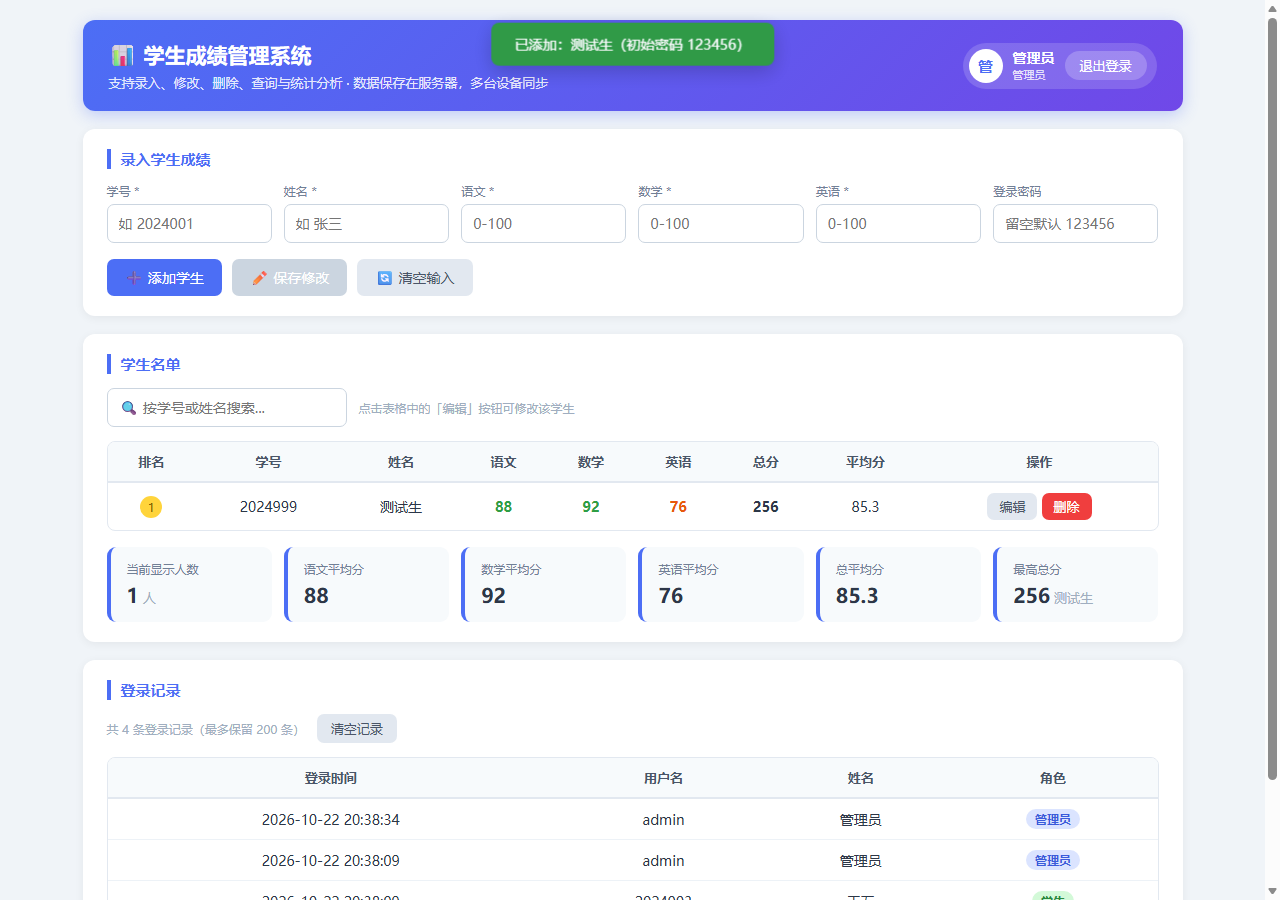
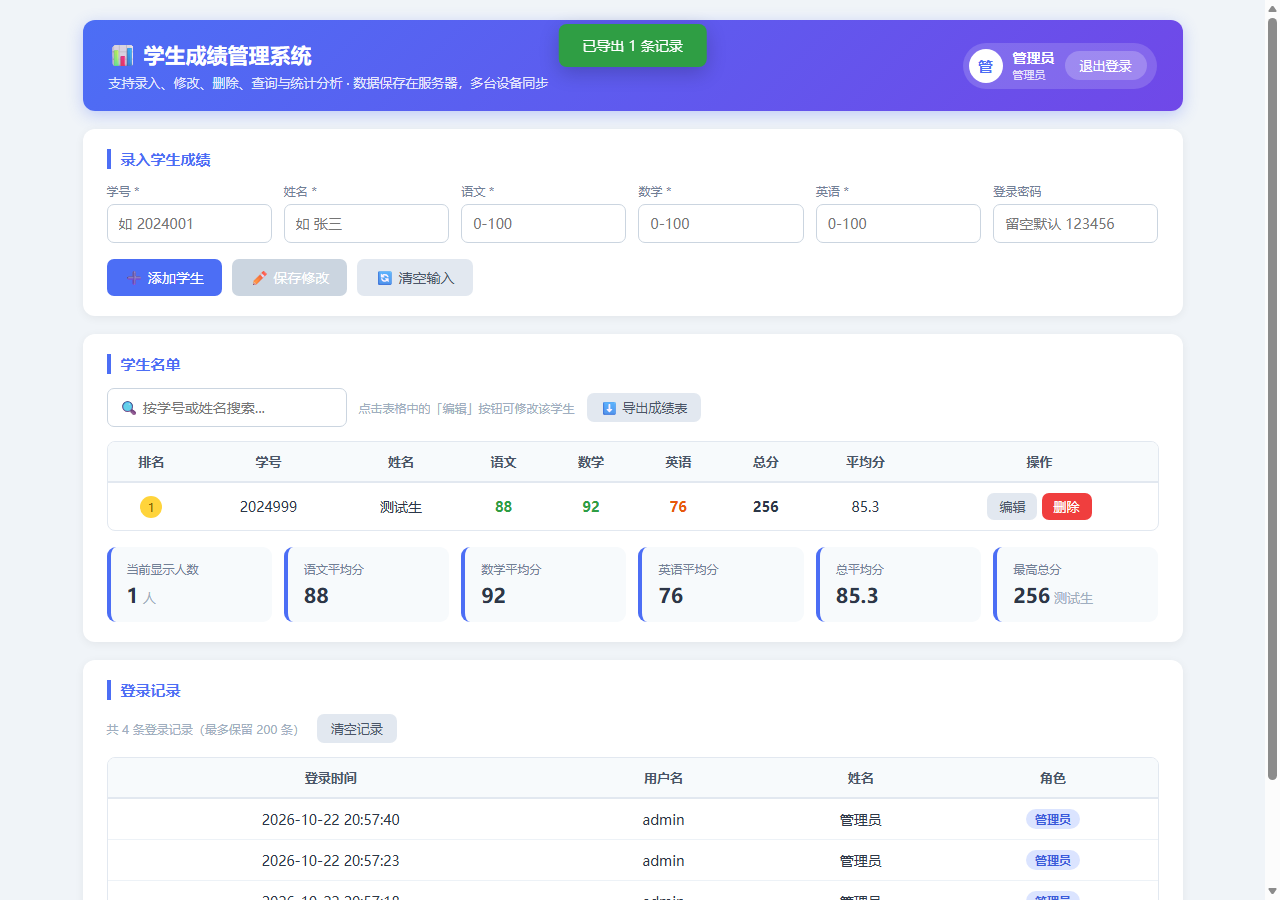
feat: 成绩表导出为 CSV
- server: 新增 GET /api/export（仅管理员），UTF-8 BOM，Excel/WPS 打开不乱码
- 前端：学生名单工具栏新增「导出成绩表」按钮，走 blob 下载并保留中文文件名
- tools/build-index.js：生成页面时注入导出按钮
- 测试：接口 42 项、端到端 20 项全部通过

diff --git a/server/tools/test-api.js b/server/tools/test-api.js
@@ -41,6 +41,9 @@ async function call(method, path, { token, body } = {}) {
   const adminToken = login.data.token;
   check('返回角色为 admin', login.data.user.role === 'admin');
 
+  // 清掉历史登录记录，让后面的日志断言是确定值
+  await call('DELETE', '/api/logs', { token: login.data.token });
+
   console.log('\n== 增删改查 ==');
   const created = await call('POST', '/api/students', {
     token: adminToken,
@@ -80,6 +83,21 @@ async function call(method, path, { token, body } = {}) {
   const afterUpd = await call('GET', '/api/students', { token: adminToken });
   check('改分后排名变化', afterUpd.data.students[0].name === '李四四', afterUpd.data.students[0].name);
 
+  console.log('\n== 导出成绩表 ==');
+  const csvRes = await fetch(BASE + '/api/export', { headers: { Authorization: 'Bearer ' + adminToken } });
+  const csvBuf = Buffer.from(await csvRes.arrayBuffer());
+  const csvText = csvBuf.toString('utf8');   // .text() 会自动去掉 BOM，所以这里读字节
+  check('管理员可导出 CSV', csvRes.status === 200, csvRes.status);
+  check('Content-Type 为 text/csv', String(csvRes.headers.get('content-type')).includes('text/csv'), csvRes.headers.get('content-type'));
+  check('带 UTF-8 BOM（Excel 不乱码）',
+    csvBuf[0] === 0xEF && csvBuf[1] === 0xBB && csvBuf[2] === 0xBF,
+    [...csvBuf.subarray(0, 3)]);
+  check('表头正确', csvText.includes('排名,学号,姓名,语文,数学,英语,总分,平均分'));
+  check('包含学生数据', csvText.includes('张三') && csvText.includes('2024001'));
+  check('行数 = 表头 + 2 名学生', csvText.trim().split(/\r?\n/).length === 3, csvText.trim().split(/\r?\n/).length);
+  check('响应是附件下载', String(csvRes.headers.get('content-disposition')).includes('attachment'));
+  check('文件名带日期', /成绩表_\d{8}\.csv/.test(decodeURIComponent(csvRes.headers.get('content-disposition'))));
+
   console.log('\n== 学生账号 ==');
   const reg = await call('POST', '/api/register', { body: { id: '2024003', name: '王五' } });
   check('学生注册成功', reg.status === 200, reg);
@@ -104,12 +122,15 @@ async function call(method, path, { token, body } = {}) {
   });
   check('学生无法自己加学生', selfUpgrade.status === 403, selfUpgrade.status);
 
+  const csvStudent = await fetch(BASE + '/api/export', { headers: { Authorization: 'Bearer ' + stuToken } });
+  check('学生不能导出全班成绩', csvStudent.status === 403, csvStudent.status);
+
   console.log('\n== 会话与日志 ==');
   const sess = await call('GET', '/api/session', { token: stuToken });
   check('会话校验通过', sess.status === 200 && sess.data.user.id === '2024003', sess);
 
   const logs = await call('GET', '/api/logs', { token: adminToken });
-  check('登录记录已写入（管理员 + 学生各一条）', logs.data.logs.length === 2, logs.data.logs.length);
+  check('登录记录已写入（开始清空过，只剩学生这一条）', logs.data.logs.length === 1, logs.data.logs.length);
   check('日志不含密码', JSON.stringify(logs.data.logs).indexOf('123456') === -1);
 
   console.log('\n== 删除与退出 ==');

diff --git a/server/server.js b/server/server.js
@@ -211,6 +211,12 @@ function send(res, status, payload) {
   res.end(body);
 }
 
+// CSV 字段转义：含逗号、引号、换行时用双引号包起来
+function csvCell(value) {
+  const s = String(value == null ? '' : value);
+  return /[",\r\n]/.test(s) ? '"' + s.replace(/"/g, '""') + '"' : s;
+}
+
 function readJson(req) {
   return new Promise((resolve, reject) => {
     let size = 0;
@@ -478,6 +484,38 @@ async function route(req, res) {
     const me = all.find((s) => s.id === sess.id);
     if (!me) throw new HttpError(404, '账号信息已失效，请重新登录');
     return send(res, 200, { student: me, rank: me.rank, total: all.length });
+  }
+
+  // ---------------- 导出成绩表（管理员，CSV 可直接用 Excel / WPS 打开）
+  if (pathname === '/api/export' && method === 'GET') {
+    requireAdmin(req);
+    const rows = rankedStudents();
+    const header = ['排名', '学号', '姓名', '语文', '数学', '英语', '总分', '平均分'];
+    const lines = [header.join(',')];
+    for (const s of rows) {
+      lines.push([
+        s.rank,
+        s.id,
+        s.name,
+        s.chinese,
+        s.math,
+        s.english,
+        s.total,
+        Math.round((s.total / SUBJECTS.length) * 10) / 10
+      ].map(csvCell).join(','));
+    }
+    // 前面加 BOM，Excel 才不会把中文显示成乱码
+    const body = '\uFEFF' + lines.join('\r\n') + '\r\n';
+    const d = new Date();
+    const stamp = `${d.getFullYear()}${String(d.getMonth() + 1).padStart(2, '0')}${String(d.getDate()).padStart(2, '0')}`;
+    const filename = `成绩表_${stamp}.csv`;
+    res.writeHead(200, {
+      'Content-Type': 'text/csv; charset=utf-8',
+      'Content-Disposition': `attachment; filename="scores_${stamp}.csv"; filename*=UTF-8''${encodeURIComponent(filename)}`,
+      'Cache-Control': 'no-store',
+      'X-Content-Type-Options': 'nosniff'
+    });
+    return res.end(body);
   }
 
   // ---------------- 登录记录（管理员）

diff --git a/server/public/app.js b/server/public/app.js
@@ -347,6 +347,40 @@
     }
   }
 
+  // 导出成绩表（CSV，Excel / WPS 可直接打开）
+  async function exportScores() {
+    if (students.length === 0) { toast('暂无学生数据可导出', 'error'); return; }
+    try {
+      const res = await fetch(API_BASE + '/api/export', {
+        headers: token ? { 'Authorization': 'Bearer ' + token } : {}
+      });
+      if (!res.ok) {
+        let msg = `导出失败（HTTP ${res.status}）`;
+        try { const j = await res.json(); if (j && j.error) msg = j.error; } catch (e) {}
+        throw new ApiError(msg, res.status);
+      }
+      const blob = await res.blob();
+      // 文件名优先取后端 Content-Disposition 里的中文名
+      let name = '成绩表.csv';
+      const cd = res.headers.get('Content-Disposition') || '';
+      const m = /filename\*=UTF-8''([^;]+)/i.exec(cd);
+      if (m) { try { name = decodeURIComponent(m[1]); } catch (e) {} }
+
+      const url = URL.createObjectURL(blob);
+      const a = document.createElement('a');
+      a.href = url;
+      a.download = name;
+      document.body.appendChild(a);
+      a.click();
+      a.remove();
+      setTimeout(() => URL.revokeObjectURL(url), 1000);
+      toast(`已导出 ${students.length} 条记录`, 'success');
+    } catch (err) {
+      if (handleAuthError(err)) return;
+      toast(err.message || '导出失败', 'error');
+    }
+  }
+
   // ================= 渲染 =================
   function renderAll() {
     if (!currentUser) return;
@@ -530,6 +564,8 @@
   $('btn-reset').addEventListener('click', resetForm);
   $('inp-search').addEventListener('input', renderAdminTable);
   $('btn-clear-logs').addEventListener('click', clearLogs);
+  const exportBtn = $('btn-export');
+  if (exportBtn) exportBtn.addEventListener('click', exportScores);
 
   Object.values(inputs).forEach(el => {
     el.addEventListener('keydown', e => {

diff --git a/server/tools/e2e.js b/server/tools/e2e.js
@@ -114,6 +114,14 @@ async function main() {
 
   const rank = await evalJs('document.querySelector("#tbody tr .rank").textContent.trim()');
   check('排名显示为第 1', rank === '1', rank);
+
+  console.log('\n== 导出成绩表 ==');
+  check('名单工具栏有导出按钮', await evalJs('!!document.getElementById("btn-export")'));
+  await evalJs('document.getElementById("btn-export").click(); true');
+  await waitFor('document.getElementById("toast").textContent.includes("已导出")', 8000, '导出成功提示');
+  const exportToast = await evalJs('document.getElementById("toast").textContent');
+  check('点击导出后提示成功', exportToast.includes('已导出'), exportToast);
+
   await shot('02-admin.png');
 
   console.log('\n== 学生查看自己的成绩 ==');

diff --git a/server/public/index.html b/server/public/index.html
@@ -284,6 +284,7 @@
       <div class="toolbar">
         <input type="text" id="inp-search" placeholder="🔍 按学号或姓名搜索...">
         <span class="hint">点击表格中的「编辑」按钮可修改该学生</span>
+        <button class="btn-ghost" id="btn-export" style="padding:6px 14px;font-size:13px">⬇ 导出成绩表</button>
       </div>
       <div class="table-wrap">
         <table>

diff --git a/server/README.md b/server/README.md
@@ -81,6 +81,7 @@ xscjgl-server/
 | GET | `/api/session` | 登录 | 校验 token、恢复登录态 |
 | POST | `/api/logout` | 登录 | 退出并作废 token |
 | GET | `/api/students` | 管理员 | 全班名单（带排名） |
+| GET | `/api/export` | 管理员 | 导出成绩表 CSV |
 | POST | `/api/students` | 管理员 | 新增学生 |
 | PUT | `/api/students/:id` | 管理员 | 修改学生 |
 | DELETE | `/api/students/:id` | 管理员 | 删除学生 |
@@ -103,7 +104,17 @@ xscjgl-server/
 局限（局域网教学环境可接受）：HTTP 明文传输、没有 CSRF 防护、没有 HTTPS 证书。
 真要放到公网，请套一层 Nginx + HTTPS，并把默认管理员密码换掉。
 
-## 八、跑测试
+## 八、导出成绩表
+
+管理员登录后，在「学生名单」工具栏点 **⬇ 导出成绩表**，浏览器会直接下载
+`成绩表_YYYYMMDD.csv`。
+
+- 文件开头带 UTF-8 BOM，Excel / WPS 双击打开中文不会乱码
+- 列：排名、学号、姓名、语文、数学、英语、总分、平均分
+- 导出的永远是全部学生，不受搜索框筛选影响
+- 也可以直接调接口：`GET /api/export`（需带上管理员令牌）
+
+## 九、跑测试
 
 ```bat
 :: 先启动服务，然后另开一个窗口

diff --git a/README.md b/README.md
@@ -21,6 +21,7 @@ HTML5 课程作品，同一套界面有两个版本：
 - 排名（同分并列）、各科平均分、最高总分统计
 - 学生端只看自己的成绩、排名与等级
 - 登录记录审计（最多保留 200 条）
+- 成绩一键导出 CSV（Excel / WPS 直接打开）
 
 ## 后端版快速开始
 
